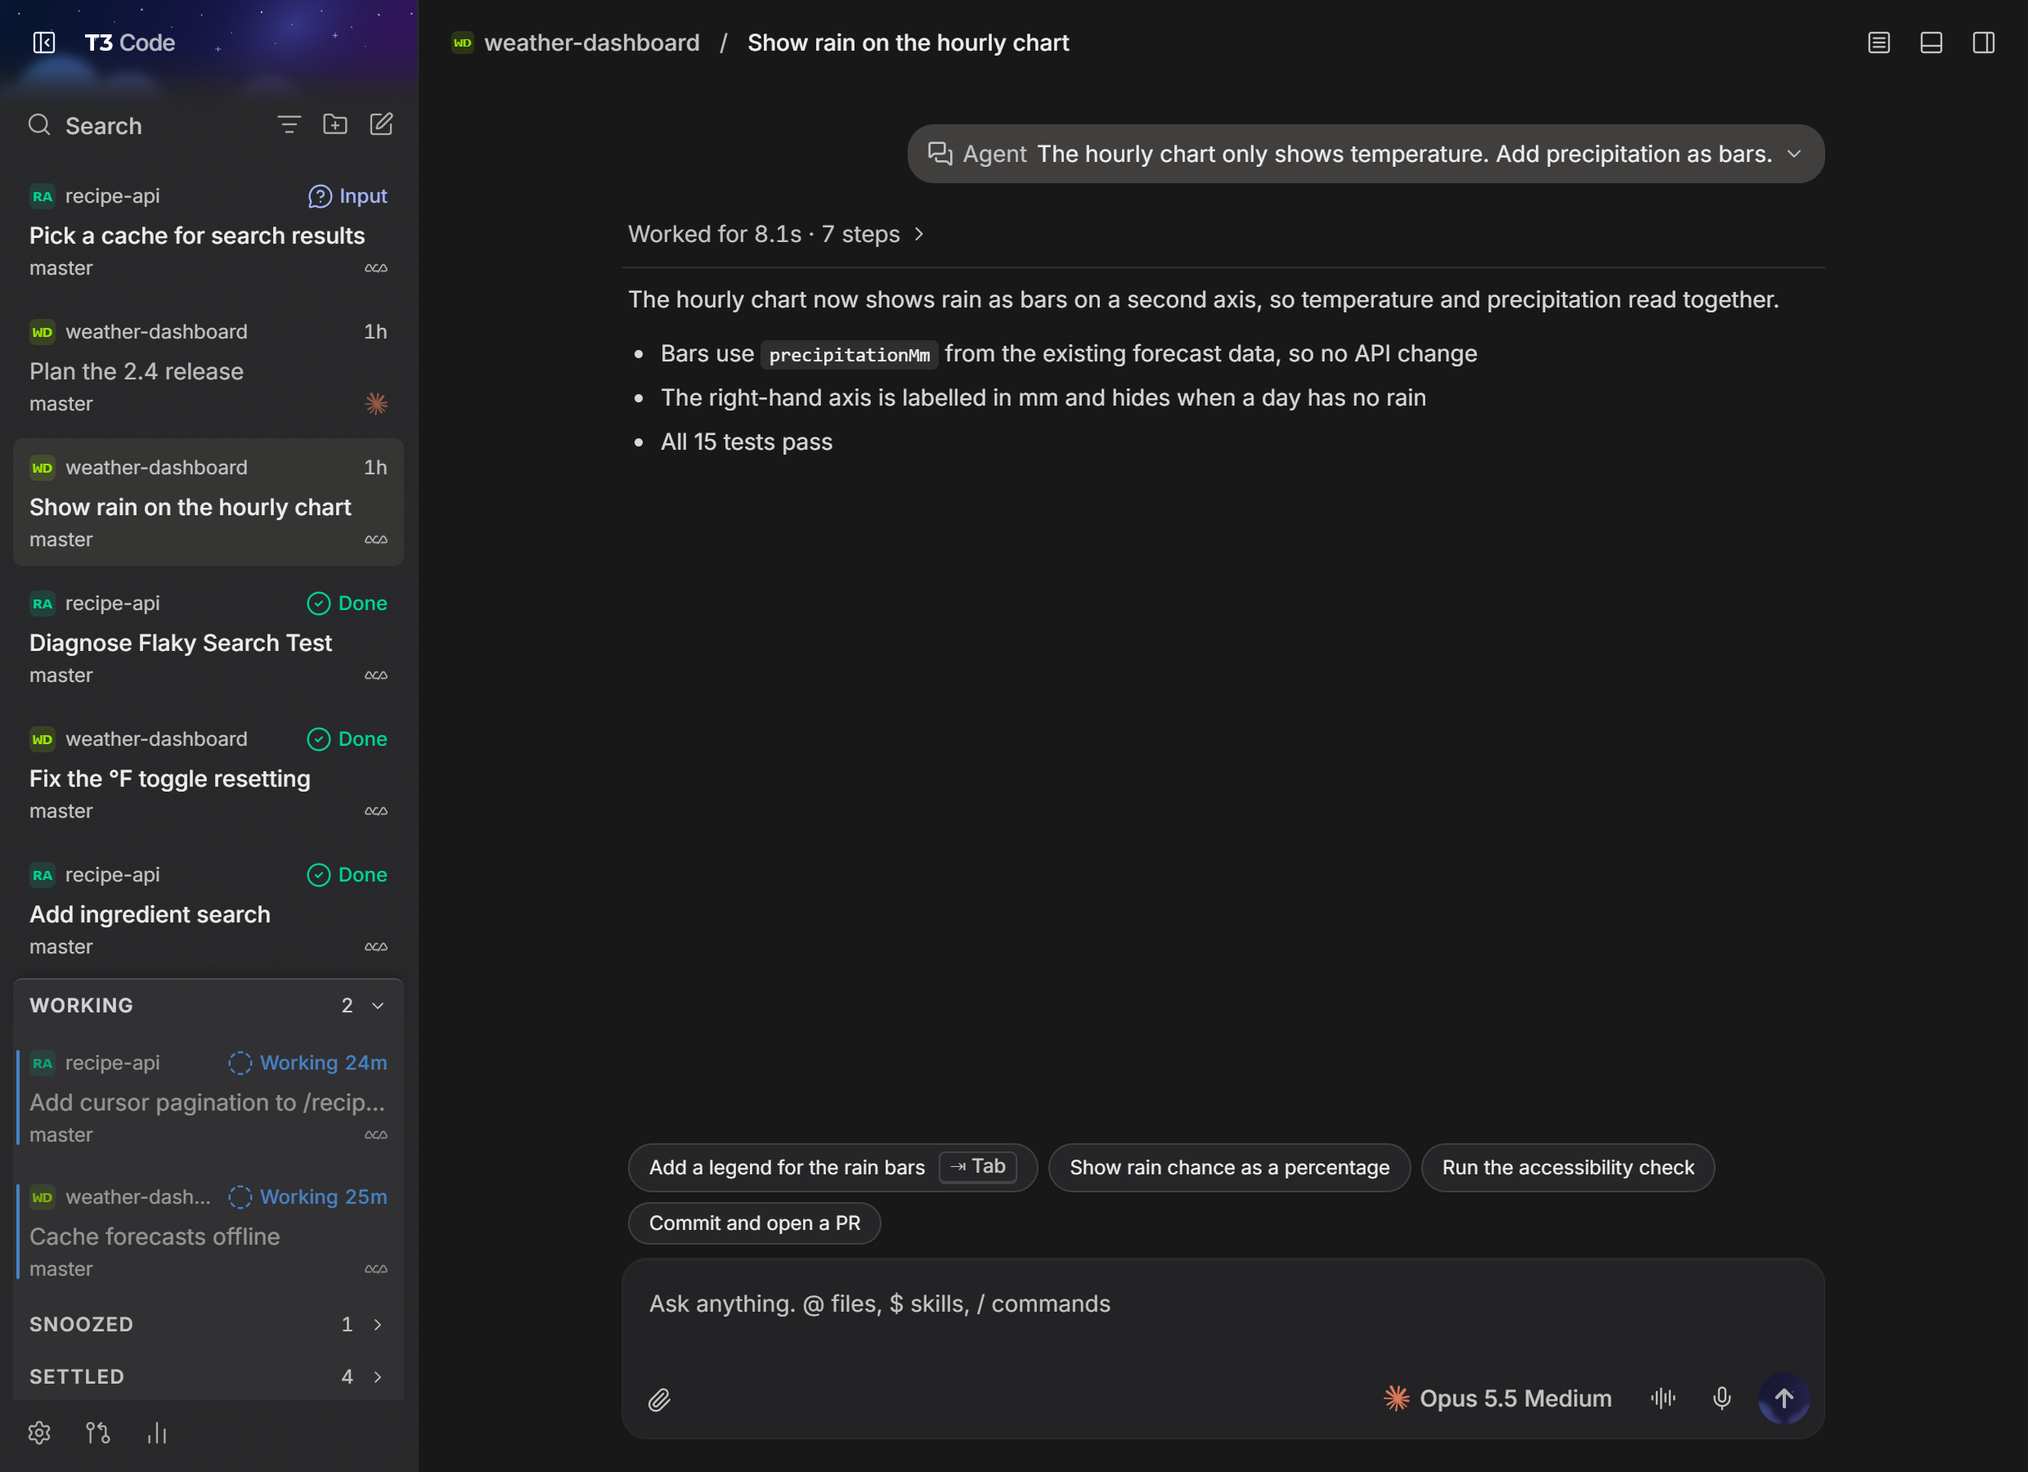
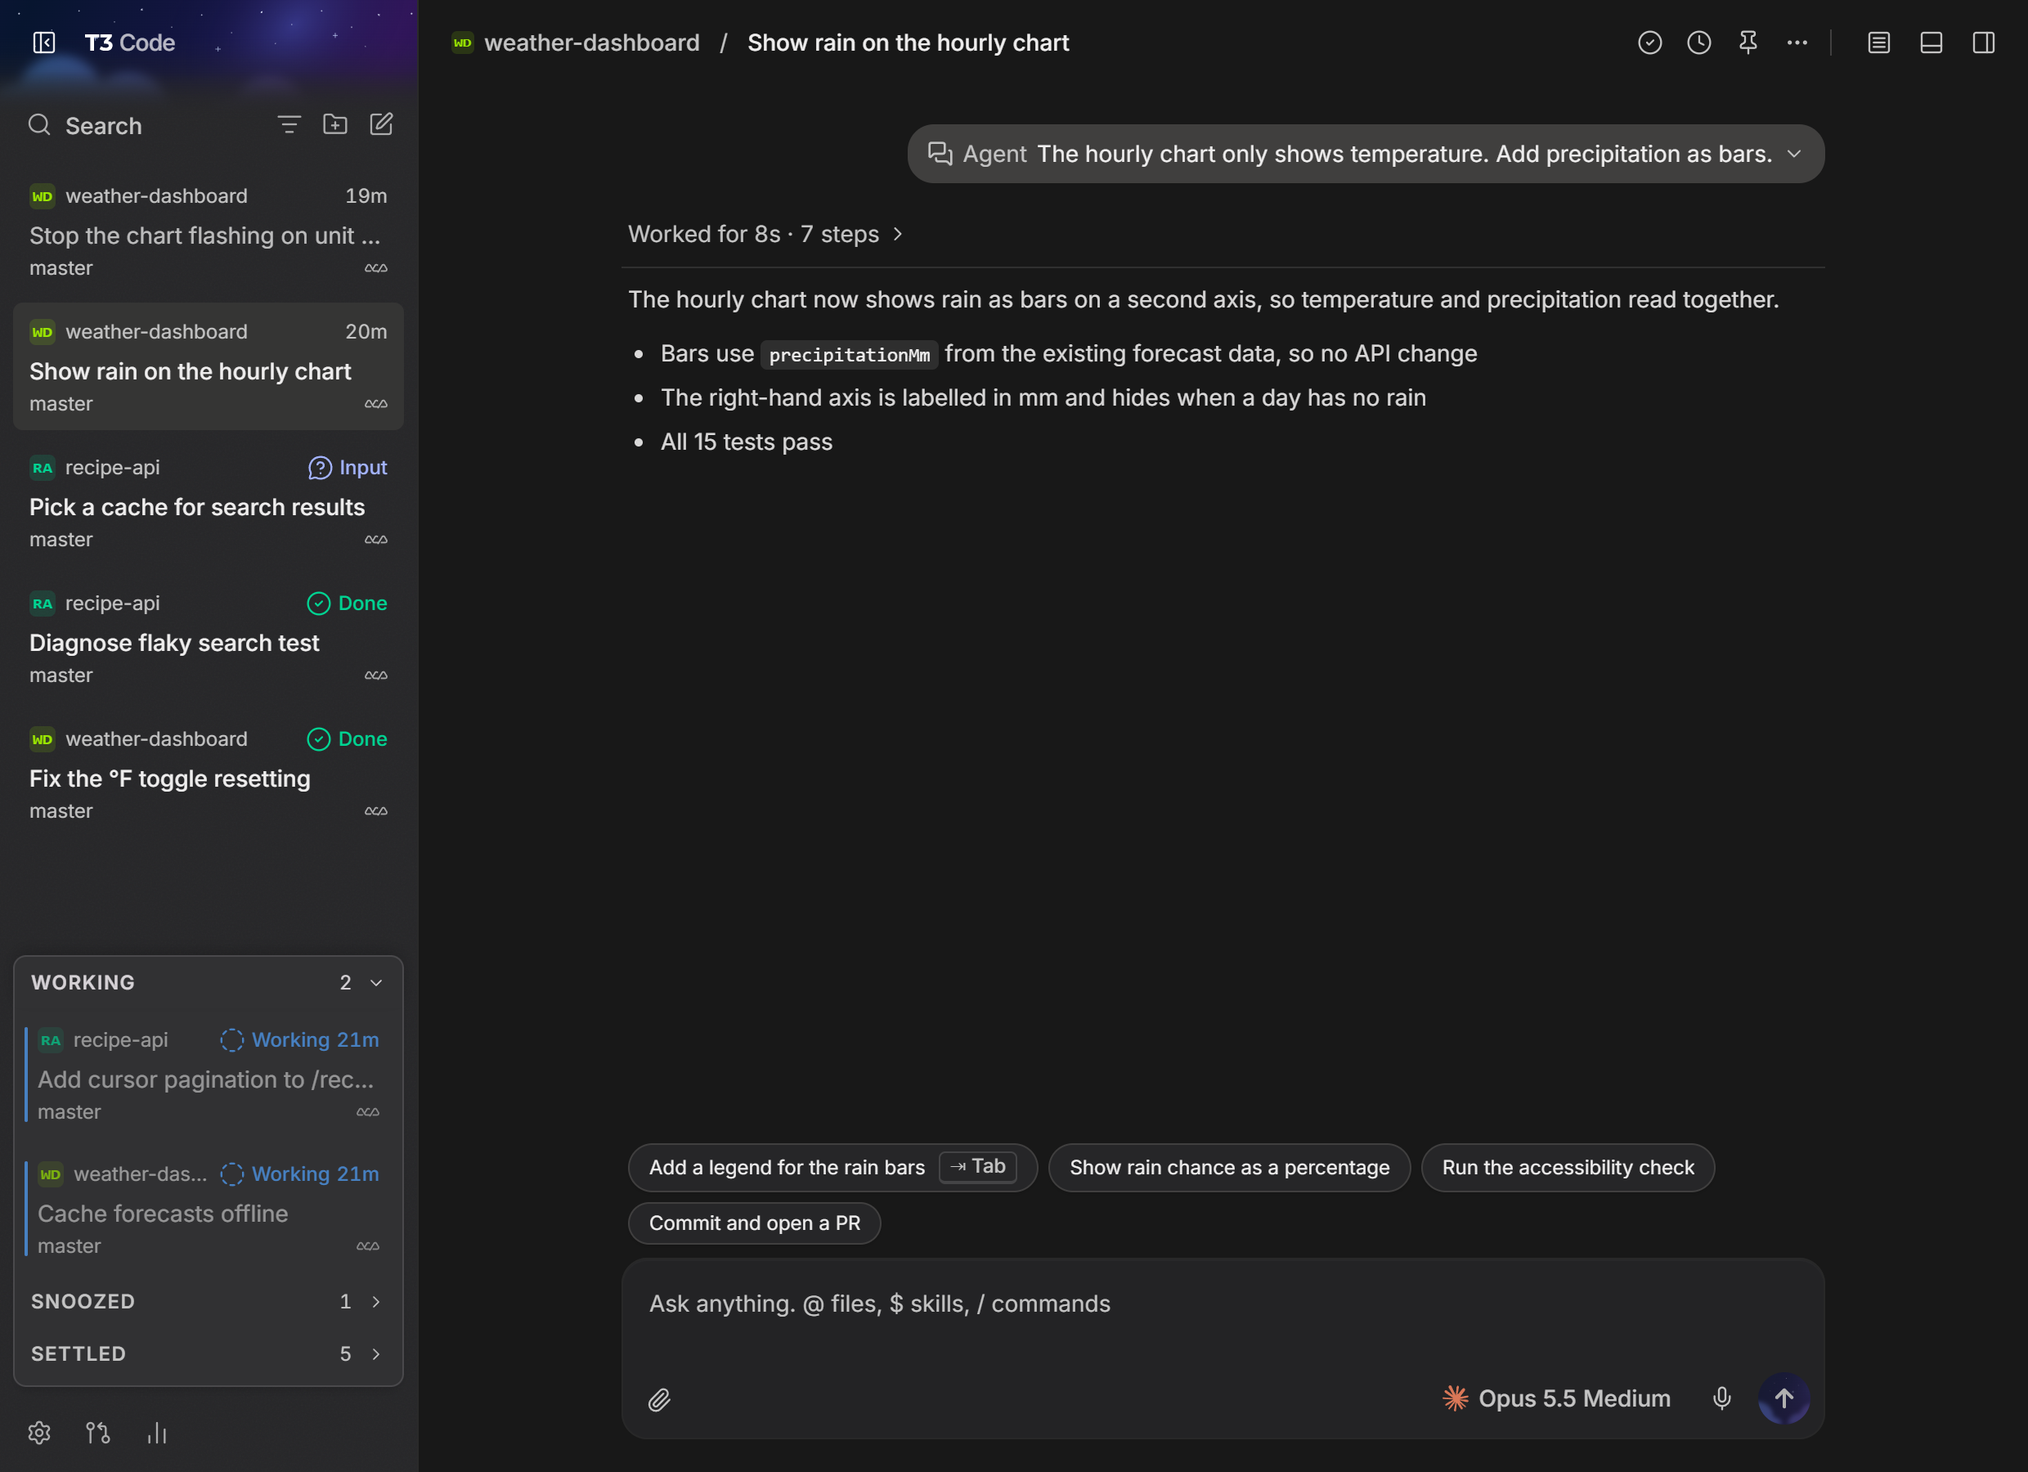
docs: show prompt jumps and header actions
The README's screenshots dated from 13 Nov. Since then the thread
header gained Settle, Snooze and Pin buttons plus the sidebar's menu,
the sidebar tray became a closed card, and the Previous / Next prompt
buttons landed, so the hero no longer matched the app and two main
features had no picture.

- Recapture the hero (dark and light) and the sidebar tray crop.
- Add a "Jump between your prompts" section with a GIF.
- Give the header actions their own section with a screenshot, moved
  out of the "And more" table, and mention Filter by project.
- List the phone's Bottom pill, start without a project, assistant
  and self-update features, and the inline-page copy fix.
- Correct when the desktop app updates: 15 s after start, then every
  4 hours, not "within about a minute of a release".

All captures use the invented weather-dashboard and recipe-api demo
projects in a worktree dev server with replayed agent runs.

diff --git a/README.md b/README.md
@@ -1,7 +1,7 @@
 <h1 align="center">T3 Code (ryankhart's fork)</h1>
 
 <p align="center">
-  A desktop app for Claude Code, Codex and other coding agents. This fork adds next-prompt buttons, ballots, read-aloud replies and a tidier sidebar on top of T3 Code and MT Code.
+  A desktop app for Claude Code, Codex and other coding agents. This fork adds next-prompt buttons, ballots, prompt-to-prompt jumps, read-aloud replies and a tidier sidebar on top of T3 Code and MT Code.
 </p>
 
 <p align="center">
@@ -29,7 +29,7 @@
   <picture>
     <source media="(prefers-color-scheme: dark)" srcset="./.github/readme/fork/hero-dark.png">
     <source media="(prefers-color-scheme: light)" srcset="./.github/readme/fork/hero-light.png">
-    <img alt="T3 Code with a finished agent run, next-prompt buttons above the message box, and the Working, Snoozed and Settled shelves docked at the bottom of the sidebar" src="./.github/readme/fork/hero-dark.png" width="900">
+    <img alt="T3 Code with a finished agent run, next-prompt buttons above the message box, Settle, Snooze and Pin buttons in the thread header, and the Working, Snoozed and Settled shelves in a card at the bottom of the sidebar" src="./.github/readme/fork/hero-dark.png" width="900">
   </picture>
 </p>
 
@@ -67,6 +67,28 @@ When an agent shows you choices as an inline page, its **Done** button drops you
 
 For agent authors: an `html_render` page calls `t3Compose(text)`, which only adds text, only after a real click, and only to the thread the page is in.
 
+### Jump between your prompts
+
+Two round arrow buttons sit at the right edge of a chat, level with **Scroll to end**. **↑ Previous prompt** first goes back to the message that started the reply you're reading, then one message earlier per click. **↓ Next prompt** goes one message later. Long replies no longer mean scrolling to find where you were.
+
+<p align="center">
+  <img alt="Clicking the up arrow scrolls back through a chat one prompt at a time, then the down arrow walks forward again" src="./.github/readme/fork/prompt-jump.gif" width="759">
+</p>
+
+Above the first loaded prompt, ↑ goes to the very top, where **Load earlier turns** appears when there's more history. ↑ hides at the top of the chat and ↓ at the last prompt; each keeps its place when the other hides.
+
+### Every thread action in the thread header
+
+Settle, Snooze and Pin buttons sit at the top of the open thread and show when they're on. **⋯** holds every action from the thread's sidebar menu (rename, regenerate title, new thread on this branch, filter the sidebar by this project, archive, copy and the rest) plus **Find in thread**, so closing the sidebar loses nothing. An unsent draft's ⋯ matches its sidebar row too. If Snooze is greyed out, hover it to see why.
+
+<p align="center">
+  <picture>
+    <source media="(prefers-color-scheme: dark)" srcset="./.github/readme/fork/header-dark.png">
+    <source media="(prefers-color-scheme: light)" srcset="./.github/readme/fork/header-light.png">
+    <img alt="The thread header with Settle, Snooze and Pin buttons, and its ⋯ menu open: Find in thread, New thread on master, Pin, Settle, Snooze, Rename, Regenerate title, Mark unread, Filter by weather-dashboard, Auto-settle behavior, Copy, Project settings, Archive and Delete" src="./.github/readme/fork/header-dark.png" width="760">
+  </picture>
+</p>
+
 ### Titles shimmer while they regenerate
 
 Ask for a new title and the old one shimmers until the new one lands, so you can tell it's about to change.
@@ -77,7 +99,7 @@ Ask for a new title and the old one shimmers until the new one lands, so you can
 
 ### Working, Snoozed and Settled docked in one tray
 
-Working, Snoozed and Settled threads sit together in one slightly raised tray at the bottom of the sidebar, with small uppercase headers, so a long thread list no longer runs straight into them. Each running thread gets a thin blue bar on its left edge.
+Working, Snoozed and Settled threads sit together in one raised card at the bottom of the sidebar, with small uppercase headers, so a long thread list no longer runs straight into them. Each running thread gets a thin blue bar on its left edge.
 
 <p align="center">
   <img alt="The sidebar's Working, Snoozed and Settled shelves in the dark and light themes, with blue bars beside running threads" src="./.github/readme/fork/sidebar-tray.png" width="528">
@@ -103,23 +125,26 @@ The `---` properties block at the top of a Markdown file shows as a neat table i
 
 ### And more
 
-| Feature                                       | What it does                                                                                                                                                                                                                                                                   |
-| --------------------------------------------- | ------------------------------------------------------------------------------------------------------------------------------------------------------------------------------------------------------------------------------------------------------------------------------ |
-| **Chrome extensions in the built-in browser** | Add extensions from the Chrome Web Store with the toolbar's Extensions button. Toolbar ones such as Bitwarden get their own button with their popup. Each browser profile has its own, and they update themselves.                                                             |
-| **Settle a thread that's asking a question**  | Settling used to fail while the agent waited on a multiple-choice question. Now Settle dismisses the question, stops that run and settles, from any entry point (sidebar, header, shortcut, phone). Approvals still block Settle.                                              |
-| **Thread actions in the thread header**       | Settle, Snooze and Pin buttons sit at the top of the thread view, and ⋯ opens the same menu as the sidebar row (rename, regenerate title, archive, copy, move to project and the rest), so closing the sidebar loses nothing. An unsent draft's ⋯ matches its sidebar row too. |
-| **Move a No project thread into a project**   | A thread started without a project can move into an existing project from its menu, also after **Turn into project**. It then works in the project's folder, and its conversation resumes there.                                                                               |
-| **New thread button setting**                 | **Settings → General → Sidebar → New thread button**: "No project" makes New thread start a scratch thread straight away instead of opening the project picker. Shift+click still starts in the current project.                                                               |
-| **Search Google for selected text**           | Right-click selected text and choose **Search Google for "…"** to look it up in your default browser.                                                                                                                                                                          |
+| Feature                                       | What it does                                                                                                                                                                                                                      |
+| --------------------------------------------- | --------------------------------------------------------------------------------------------------------------------------------------------------------------------------------------------------------------------------------- |
+| **Chrome extensions in the built-in browser** | Add extensions from the Chrome Web Store with the toolbar's Extensions button. Toolbar ones such as Bitwarden get their own button with their popup. Each browser profile has its own, and they update themselves.                |
+| **Settle a thread that's asking a question**  | Settling used to fail while the agent waited on a multiple-choice question. Now Settle dismisses the question, stops that run and settles, from any entry point (sidebar, header, shortcut, phone). Approvals still block Settle. |
+| **Move a No project thread into a project**   | A thread started without a project can move into an existing project from its menu, also after **Turn into project**. It then works in the project's folder, and its conversation resumes there.                                  |
+| **New thread button setting**                 | **Settings → General → Sidebar → New thread button**: "No project" makes New thread start a scratch thread straight away instead of opening the project picker. Shift+click still starts in the current project.                  |
+| **Search Google for selected text**           | Right-click selected text and choose **Search Google for "…"** to look it up in your default browser.                                                                                                                             |
 
 ### On your phone (Android)
 
-The same features come to the Android app: next-prompt buttons (tap to add, tap again to remove), `options` blocks as buttons, ballots filling the message box, moving a No project thread into a project, the New thread button setting, step counts, shimmering titles, frontmatter tables, and read aloud. Plus these phone-only additions:
+The same features come to the Android app: next-prompt buttons (tap to add, tap again to remove), `options` blocks as buttons, ballots filling the message box, Previous / Next prompt buttons, moving a No project thread into a project, the New thread button setting, step counts, shimmering titles, frontmatter tables, and read aloud. Plus these phone-only additions:
 
-| Feature                    | What it does                                                                                                                                                                                                                                                                  |
-| -------------------------- | ----------------------------------------------------------------------------------------------------------------------------------------------------------------------------------------------------------------------------------------------------------------------------- |
-| **Settle from the thread** | A checkmark in the open thread's header settles it and goes back to the list, with Undo for 10 seconds. On a settled thread the checkmark un-settles it. The header's ⋮ menu holds Files, Git and Terminal plus every action the thread's list row offers, in the same order. |
-| **Back to where you were** | Going back from a thread scrolls the list to that thread and highlights it once.                                                                                                                                                                                              |
+| Feature                         | What it does                                                                                                                                                                                                                                                                       |
+| ------------------------------- | ---------------------------------------------------------------------------------------------------------------------------------------------------------------------------------------------------------------------------------------------------------------------------------- |
+| **Settle from the thread**      | A checkmark in the open thread's header settles it and goes back to the list, with Undo for 10 seconds. On a settled thread the checkmark un-settles it. The header's ⋮ menu holds Files, Git and Terminal plus every action the thread's list row offers, in the same order.      |
+| **Back to where you were**      | Going back from a thread scrolls the list to that thread and highlights it once.                                                                                                                                                                                                   |
+| **Bottom pill**                 | The scroll-to-end arrow is a pill labelled **Bottom**, so it can't be mixed up with the ↓ Next prompt button beside it.                                                                                                                                                            |
+| **Start without a project**     | A new thread's heading has an "or start without a project" link under it, as on desktop: one tap instead of two.                                                                                                                                                                   |
+| **Android's digital assistant** | Pick T3 Code Fork under Android's **Default apps → Digital assistant app**. Then the assistant gesture (such as holding the side button) opens a new No project thread and starts dictation. If no connected PC offers No project threads, it opens the new-thread screen instead. |
+| **Updates itself**              | On Wi-Fi (any connection Android doesn't call metered) the app downloads the newest release, checks it, and installs it when you leave the app. If Android needs a tap, it asks when you come back. Allow "Install unknown apps" for it once, when it asks.                        |
 
 Read aloud on the phone uses a small speech service on the paired PC (port 3776 over Tailscale), because the phone's own voices are poor. It works over a direct Tailscale connection, not a relay. Details in [FORK.md](./FORK.md#phone-app).
 
@@ -127,6 +152,7 @@ Read aloud on the phone uses a small speech service on the paired PC (port 3776 
 
 - **Phone app no longer crashes after pairing.** MT Code's computer-task code needs `crypto.getRandomValues`, which the phone's JavaScript engine lacks; this build supplies it.
 - **Settling a waiting question can't send the agent a blank answer.** Stop withdraws the question properly instead of answering it empty.
+- **Copy buttons work in inline pages on the phone.**
 
 ## Download
 
@@ -137,7 +163,7 @@ Get the newest release from **[GitHub Releases](https://github.com/ryankhart/t3c
 
 There are no macOS or Linux builds. The Windows installer is unsigned: if SmartScreen warns, choose **More info → Run anyway**.
 
-The desktop app updates itself from this repository's releases. Heads-up: an update installs and restarts the app by itself within about a minute of a release, which stops any agent runs in progress.
+The desktop app updates itself from this repository's releases. It checks 15 seconds after it starts and then every 4 hours. Heads-up: when it finds a new release, it downloads it, then installs it and restarts by itself, which stops any agent runs in progress.
 
 Because it uses MT Code's app identity and data folder, it replaces MT Code rather than installing beside it. Your MT Code threads, settings and projects carry over. It does install beside official T3 Code, which uses `~/.t3`.
 
